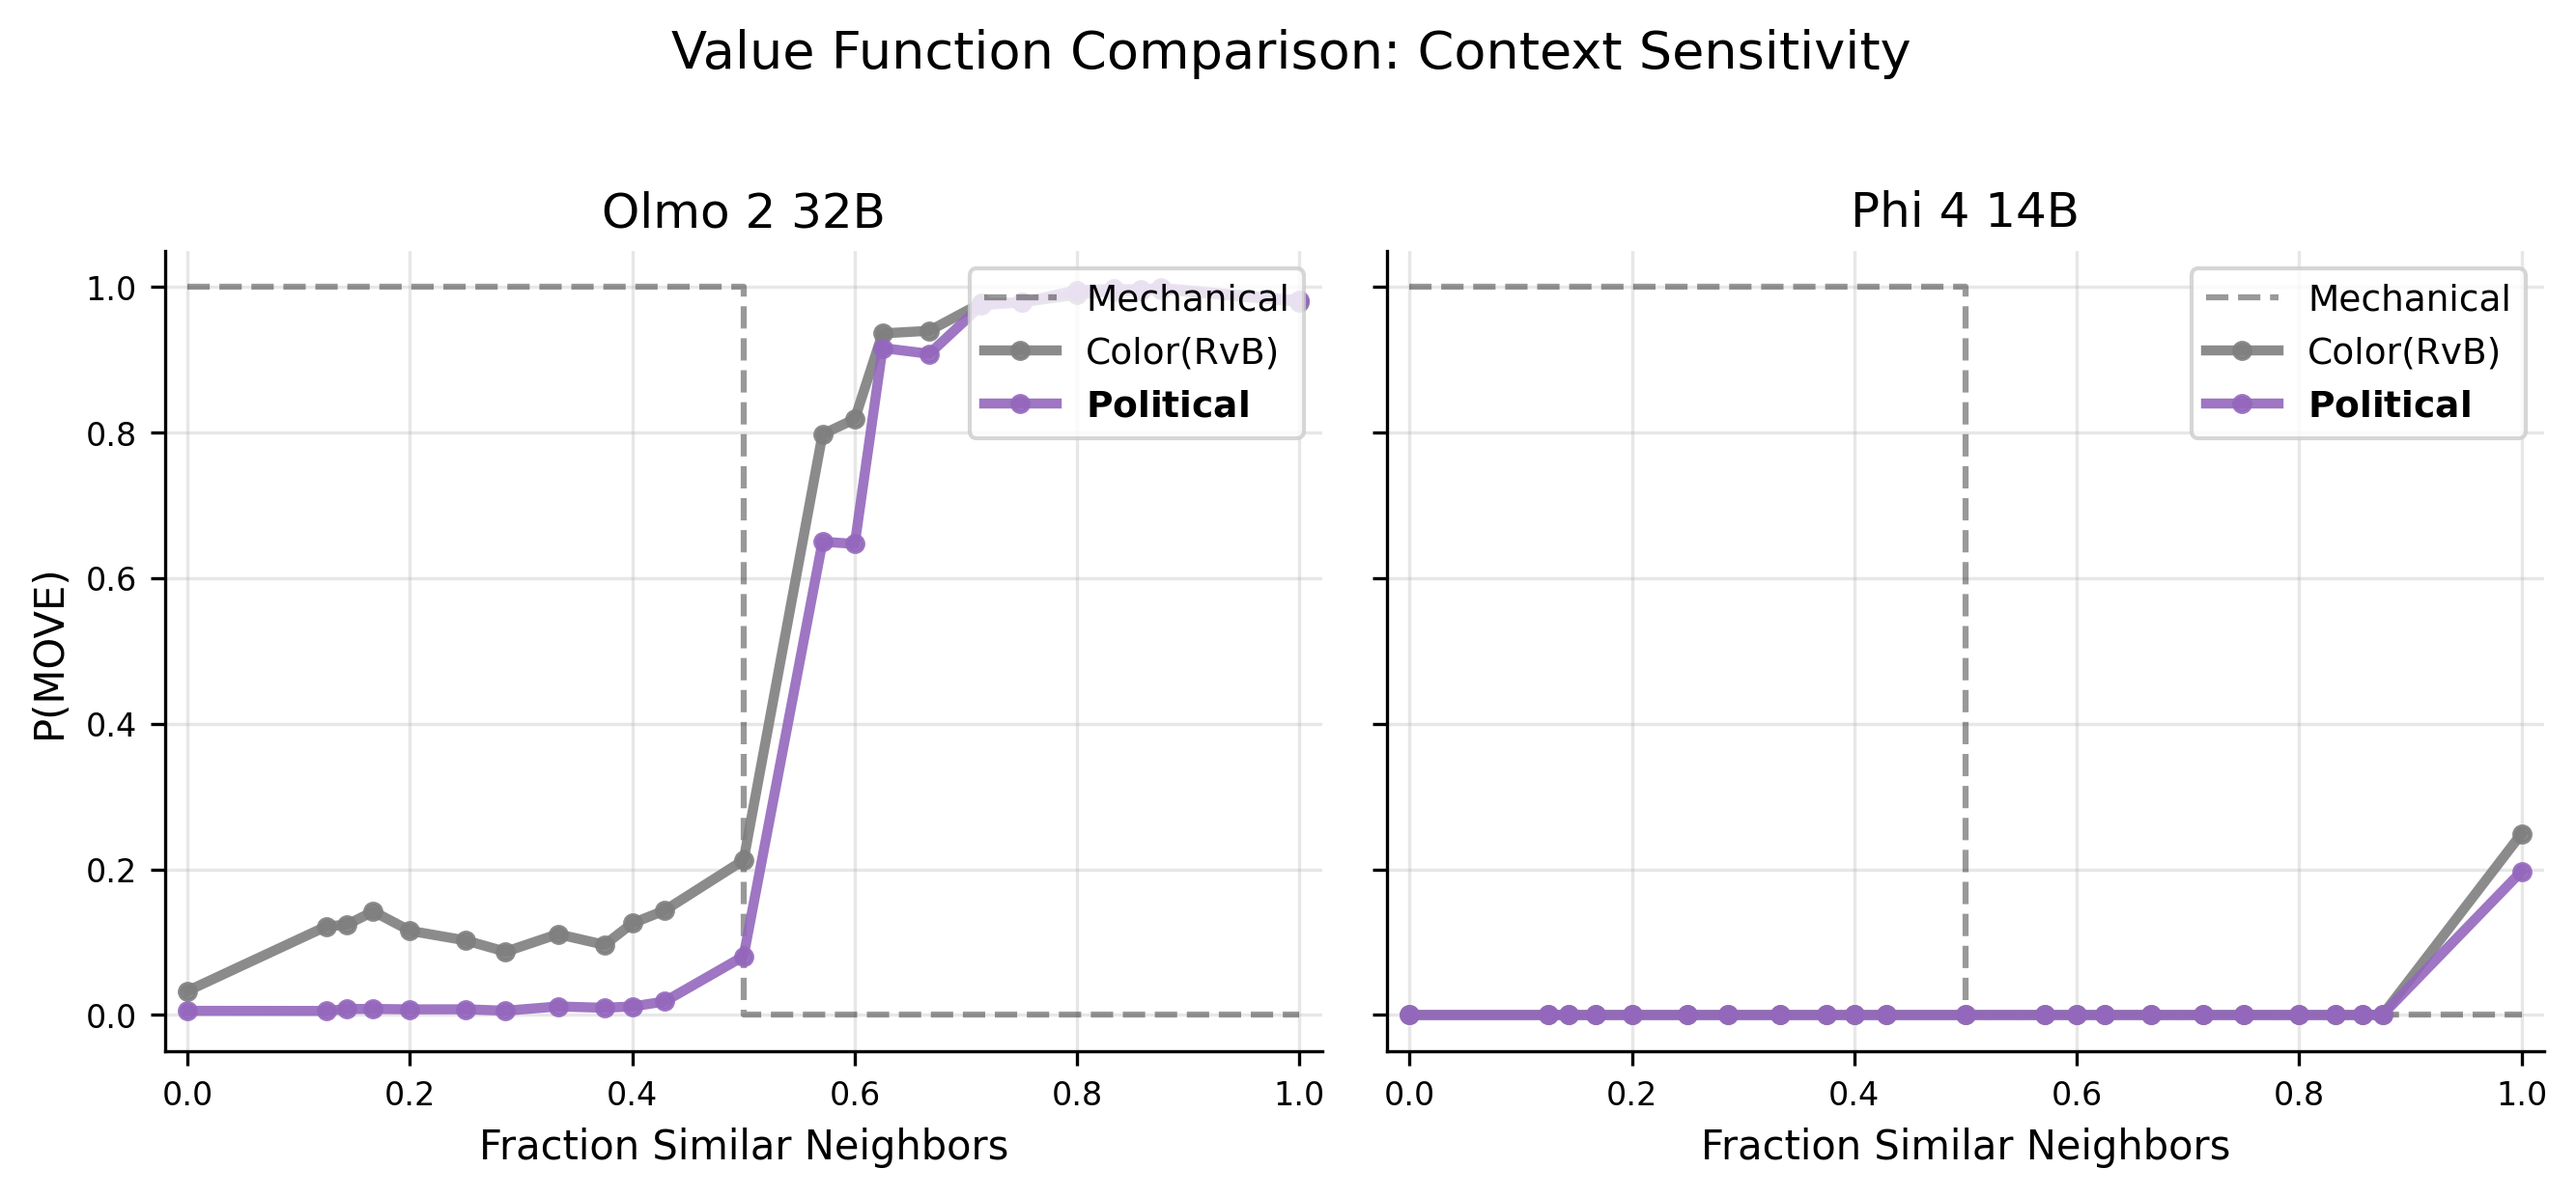
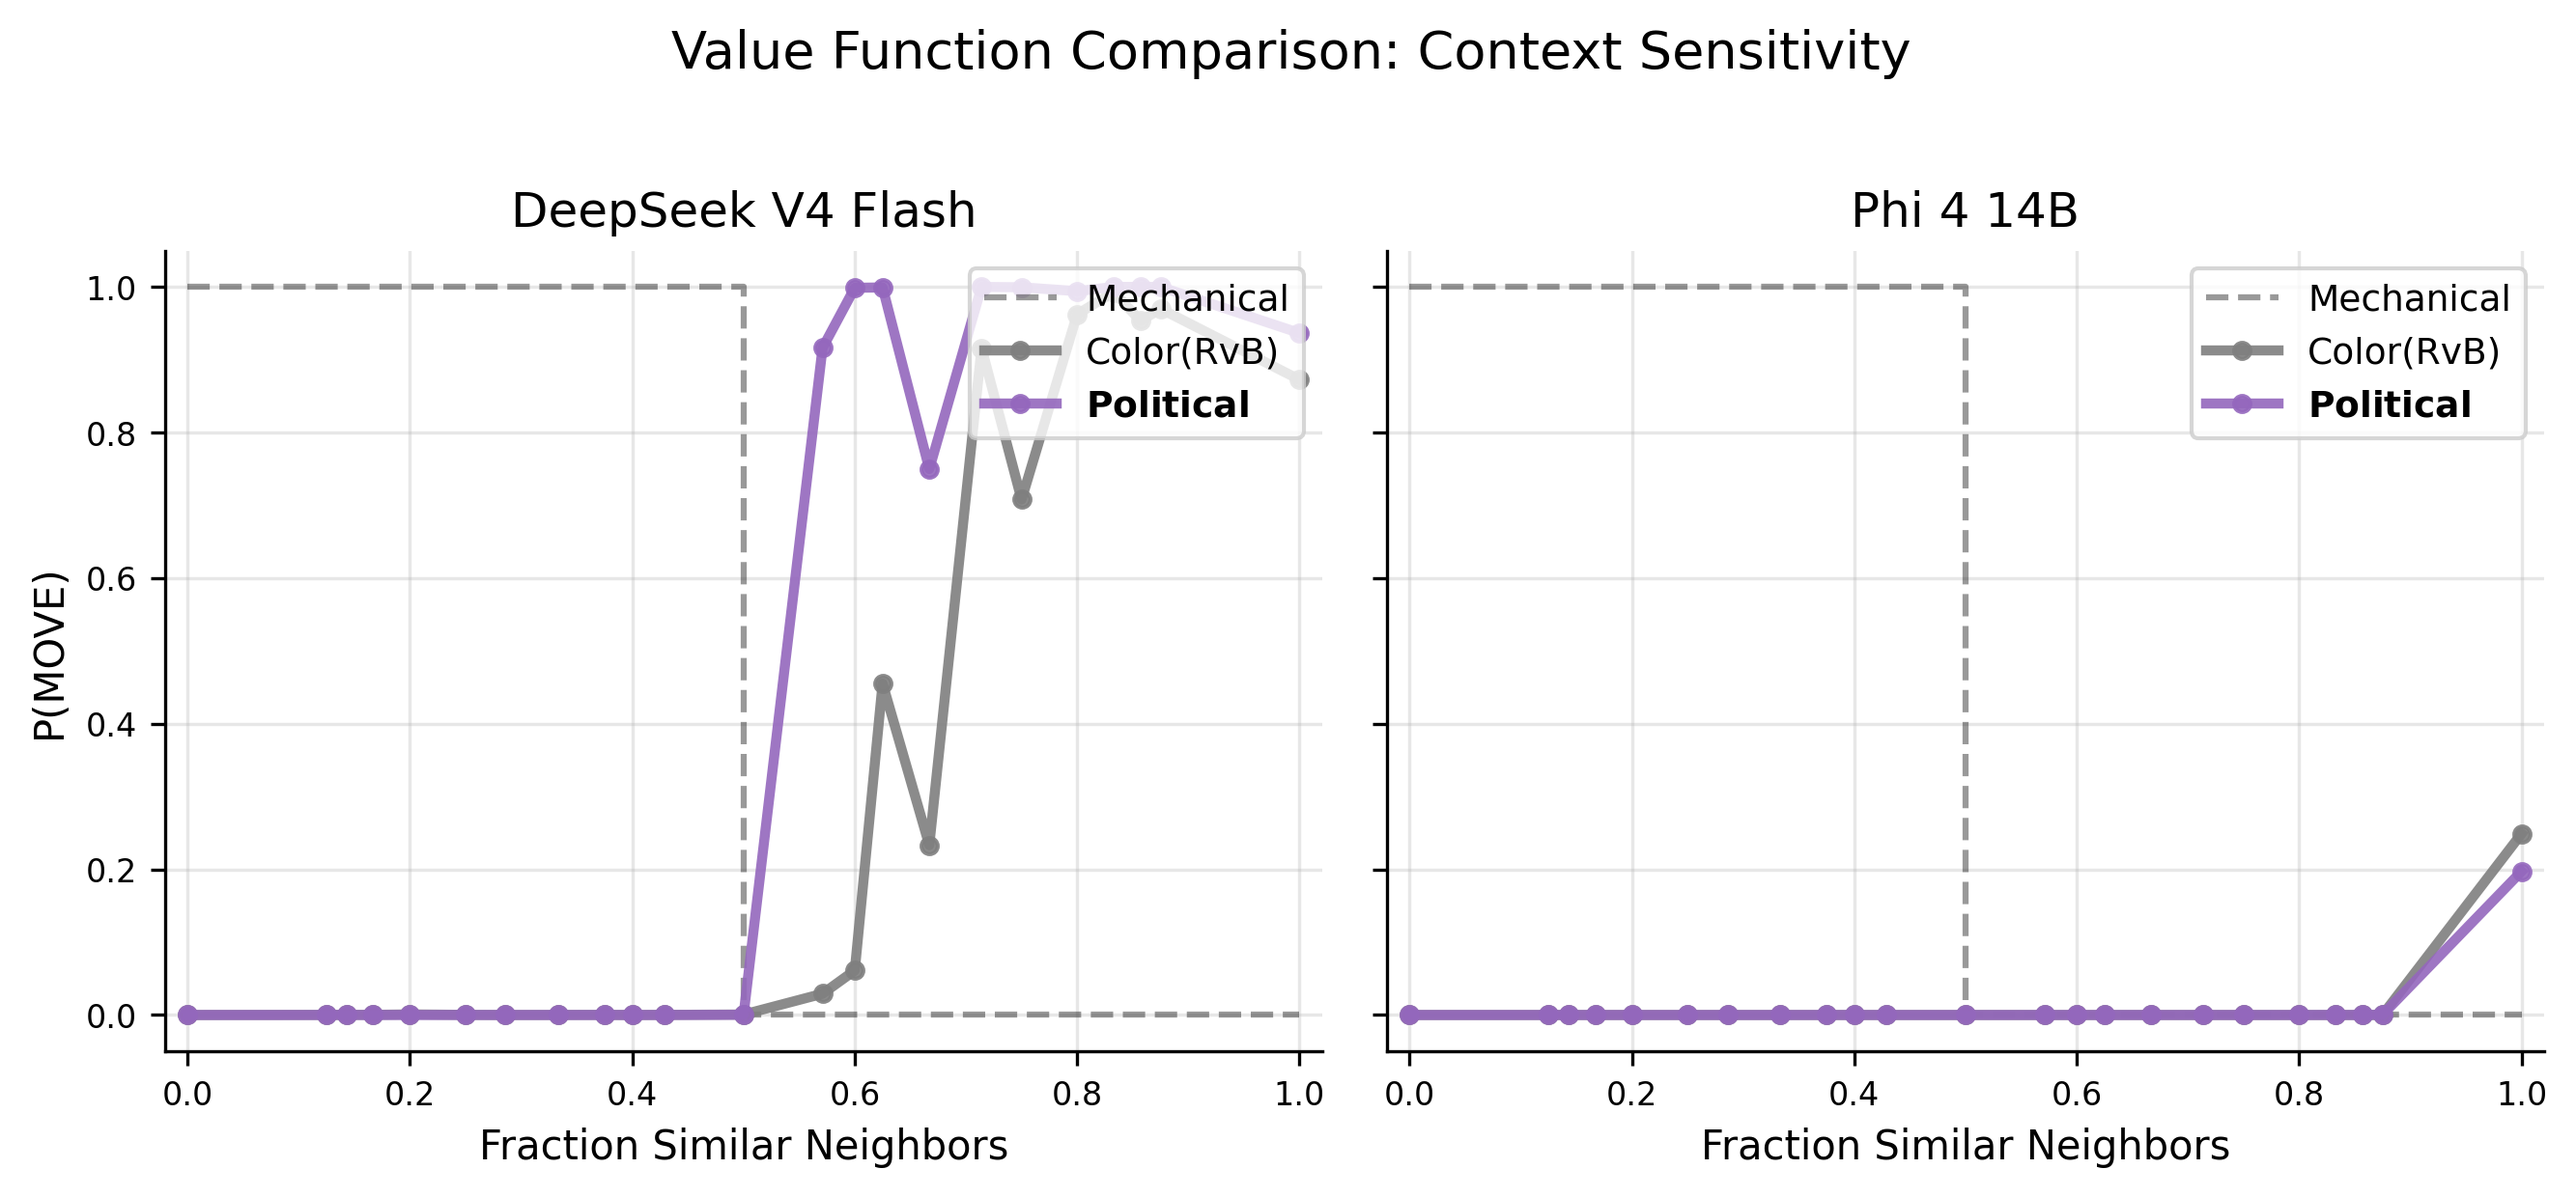
slide updates

Changed region(s): [[0.0622, 0.1532, 0.4046, 0.8581], [0.4357, 0.2452, 0.5291, 0.2758], [0.249, 0.7355, 0.2801, 0.7661]]

diff --git a/analysis_tools/ccs2026_presentation/compute_scenario_orderings.py b/analysis_tools/ccs2026_presentation/compute_scenario_orderings.py
@@ -14,7 +14,7 @@ Outputs:
 - pairwise_tests_all.csv: Full pairwise test results
 - ordering_3way.csv: Income vs Political vs Racial orderings
 - ordering_6way.csv: All scenario orderings
-- key_results_table.tex: LaTeX code for presentation
+- key_results_ordering.tex: LaTeX model rows only (for \input in presentation)
 """
 
 import pandas as pd
@@ -443,45 +443,23 @@ def check_grouping_pattern(ordering_str):
 
 
 def generate_latex_table(ordering_3way_df):
-    """Generate LaTeX code for the Key Results table.
+    """Generate LaTeX code for the Key Results ordering rows only.
 
     Uses grouping notation for cases where the first element matches empirical
     against all others, but internal ordering doesn't match.
     E.g., Olmo: "Economic <* (Racial < Political)" shows Economic lowest matches
     empirical, but Racial < Political doesn't match (should be Political < Racial).
+
+    Only generates the model rows (\midrule to \bottomrule) - the rest of the
+    frame is in the main presentation .tex file.
     """
     from datetime import datetime
     import re
 
     timestamp = datetime.now().strftime("%Y-%m-%d %H:%M:%S")
-    n_models = len(ordering_3way_df)
-    models_list = ", ".join(ordering_3way_df['model'].tolist())
 
-    header = f"""% =============================================================================
-% Key Results Table - Auto-generated
-% =============================================================================
-% Source: analysis_tools/ccs2026_presentation/compute_scenario_orderings.py
-% Generated: {timestamp}
-% Models: {n_models} ({models_list})
-% Data: experiments_with_llama_cpp/cross_model/cross_model_vf-lp_sources.csv
-% Methodology: Independent t-tests (Welch's), Holm-corrected, requires p<0.01 AND |Cohen's d|>=0.2
-% Regenerate: python analysis_tools/ccs2026_presentation/generate_and_deploy_tables.py --yes
-% =============================================================================
-
-"""
-
-    latex = header + r"""\begin{frame}[t]{Key Result. Segregation Ordering: Empirical vs. LLMs}
-
-
-\begin{center}
-\small
-\begin{tabular}{ll}
-\toprule
-\textbf{Source} & \textbf{Ordering (lowest $\rightarrow$ highest segregation)} \\
-\midrule
-\textbf{Empirical} & Economic $<^{\star}$ Political $<^{\star}$ Racial \\
-\midrule
-"""
+    # No comments at start - they break \noalign in tabular when using \input
+    latex = ""
 
     for _, row in ordering_3way_df.iterrows():
         model = row['model']
@@ -578,18 +556,8 @@ def generate_latex_table(ordering_3way_df):
 
         latex += f"{model_display} & {latex_ordering} \\\\\n"
 
-    latex += r"""\bottomrule
-\end{tabular} \\
-{$<^{\star}$ indicates match to the empirical order.}
-\end{center}
-
-\smallskip
-
-\textbf{Pattern:} Most context-sensitive LLMs show Racial segregation as \emph{lowest} (opposite of empirical). Only Olmo matches empirical by showing Economic as lowest. Three models (Granite, Mistral, Phi) are context-insensitive.
-
-\end{frame}
-"""
-
+    # Remove trailing \\\n from last row - main .tex will add \\ before \bottomrule
+    latex = latex.rstrip('\n').rstrip('\\').rstrip('\\')
     return latex
 
 
@@ -678,10 +646,19 @@ def main():
     # Generate LaTeX
     print("\n5. Generating LaTeX table...")
     latex_code = generate_latex_table(ordering_3way_df)
-    latex_path = SCRIPT_DIR / "key_results_table.tex"
+    latex_path = SCRIPT_DIR / "key_results_ordering.tex"
     with open(latex_path, 'w') as f:
-        f.write(latex_code)
+        f.write(latex_code.rstrip('\n'))  # No trailing newline - needed for \bottomrule
     print(f"   Saved: {latex_path}")
+
+    # Write metadata file
+    from datetime import datetime
+    timestamp = datetime.now().strftime("%Y-%m-%d %H:%M:%S")
+    info_path = SCRIPT_DIR / "key_results_ordering_info.txt"
+    with open(info_path, 'w') as f:
+        f.write(f"Source: analysis_tools/ccs2026_presentation/compute_scenario_orderings.py\n")
+        f.write(f"Generated: {timestamp}\n")
+    print(f"   Saved: {info_path}")
 
     print("\n" + "=" * 60)
     print("Done!")

diff --git a/analysis_tools/ccs2026_presentation/generate_value_function_plots.py b/analysis_tools/ccs2026_presentation/generate_value_function_plots.py
@@ -162,20 +162,21 @@ def generate_value_function_plot(model: str, run_dir: str, output_path: Path) ->
 
 def generate_combined_example_plot(output_path: Path) -> bool:
     """Generate a single plot comparing two contrasting models/scenarios."""
-    # Load Olmo (high differentiation) and Phi (low differentiation)
+    # Load DeepSeek (context-sensitive) and Phi (context-insensitive)
+    # Shows contrast between models that respond to context vs those that don't
     sources = pd.read_csv(CROSS_MODEL_SOURCES)
 
-    olmo_row = sources[sources['model'].str.startswith('olmo')].iloc[0]
+    deepseek_row = sources[sources['model'].str.startswith('deepseek')].iloc[0]
     phi_row = sources[sources['model'].str.startswith('phi')].iloc[0]
 
-    olmo_vfs = load_value_functions(olmo_row['run_dir'])
+    deepseek_vfs = load_value_functions(deepseek_row['run_dir'])
     phi_vfs = load_value_functions(phi_row['run_dir'])
 
-    if not olmo_vfs or not phi_vfs:
-        print("  WARNING: Could not load Olmo or Phi value functions")
+    if not deepseek_vfs or not phi_vfs:
+        print("  WARNING: Could not load DeepSeek or Phi value functions")
         return False
 
-    # Create 2x2 comparison: Olmo baseline vs political, Phi baseline vs political
+    # Create 1x2 comparison: DeepSeek (context-sensitive) vs Phi (context-insensitive)
     plt.rcParams.update({
         "figure.dpi": 300,
         "savefig.dpi": 300,
@@ -187,7 +188,7 @@ def generate_combined_example_plot(output_path: Path) -> bool:
 
     scenarios_to_show = ['baseline', 'political_liberal_conservative']
     models_data = [
-        ("Olmo 2 32B", olmo_vfs),
+        ("DeepSeek V4 Flash", deepseek_vfs),
         ("Phi 4 14B", phi_vfs),
     ]
 

diff --git a/analysis_tools/ccs2026_presentation/key_results_table.tex b/analysis_tools/ccs2026_presentation/key_results_table.tex
@@ -2,7 +2,7 @@
 % Key Results Table - Auto-generated
 % =============================================================================
 % Source: analysis_tools/ccs2026_presentation/compute_scenario_orderings.py
-% Generated: 2026-09-29 02:14:41
+% Generated: 2026-09-29 10:40:16
 % Models: 9 (olmo-2-32b, deepseek-v4-flash, llama-3.3-70b, qwen3.6-27b, gemma-4-31b, hermes-4.3-36b, granite-4.2-30b, mistral-small-4-119b, phi-4-14b)
 % Data: experiments_with_llama_cpp/cross_model/cross_model_vf-lp_sources.csv
 % Methodology: Independent t-tests (Welch's), Holm-corrected, requires p<0.01 AND |Cohen's d|>=0.2
@@ -30,8 +30,9 @@ Granite 4.2 30B & Racial $\approx$ Economic $\approx$ Political \\
 Mistral Small 4 119B & Racial $\approx$ Economic $\approx$ Political \\
 Phi 4 14B & Racial $\approx$ Economic $\approx$ Political \\
 \bottomrule
-\end{tabular} \\
-{$<^{\star}$ indicates match to the empirical order.}
+\end{tabular}
+
+{\tiny $<$: significant (p$<$0.01) \quad $\approx$: not significant (p$>$0.1) \quad ${}^{\star}$: matches empirical}
 \end{center}
 
 \smallskip

diff --git a/analysis_tools/ccs2026_presentation/generate_and_deploy_tables.py b/analysis_tools/ccs2026_presentation/generate_and_deploy_tables.py
@@ -25,7 +25,8 @@ PRES_DIR = PROJECT_ROOT / "pres-overleaf.link" / "pres"
 
 # Files to deploy
 LATEX_FILES = [
-    "key_results_table.tex",
+    "key_results_ordering.tex",
+    "key_results_ordering_info.txt",
 ]
 
 TARGET_HOSTNAME = "ECON-0FM96LD-L"
@@ -71,7 +72,7 @@ def deploy_tables():
     print("\nDone! Tables deployed to presentation folder.")
     print(f"  Location: {PRES_DIR}")
     print("\nTo use in your presentation, add to the preamble or where needed:")
-    print("  \\input{key_results_table.tex}")
+    print("  \\input{key_results_ordering.tex}")
 
     return True
 

diff --git a/analysis_tools/ccs2026_presentation/key_results_ordering.tex b/analysis_tools/ccs2026_presentation/key_results_ordering.tex
@@ -1,0 +1,9 @@
+Olmo 2 32B & Economic $<^{\star}$ (Racial $<$ Political) \\
+Deepseek V4 Flash & Racial $<$ Economic $<^{\star}$ Political \\
+Llama 3.3 70B & Racial $<$ Economic $<^{\star}$ Political \\
+Qwen3.6 27B & Racial $<$ Economic $<^{\star}$ Political \\
+Gemma 4 31B & Racial $<$ Political $\approx$ Economic \\
+Hermes 4.3 36B & Racial $<$ Political $\approx$ Economic \\
+Granite 4.2 30B & Racial $\approx$ Economic $\approx$ Political \\
+Mistral Small 4 119B & Racial $\approx$ Economic $\approx$ Political \\
+Phi 4 14B & Racial $\approx$ Economic $\approx$ Political 

diff --git a/README.md b/README.md
@@ -34,7 +34,7 @@ Cross-model comparison plots and statistical tests are in `experiments_with_llam
 
 The presentation at `pres-overleaf.link/pres/Schelling-llm-social-context.tex` needs to be updated with new results for the CCS 2026 conference (October 12–16, Binghamton, NY). The following tasks are required:
 
-#### Task 1: Update Key Results tables
+#### Task 1: Update Key Results tables ✓ DONE
 
 The "Key Results" table comparing LLM scenario orderings to empirical data must be updated with the new 9-model results using statistically rigorous analysis.
 
@@ -84,7 +84,7 @@ python analysis_tools/ccs2026_presentation/generate_and_deploy_tables.py --no
 
 **In the presentation:** Use `\input{key_results_table.tex}` to include the table.
 
-#### Task 2: Update Dissimilarity Index grid slide
+#### Task 2: Update Dissimilarity Index grid slide ✓ DONE
 
 The presentation slide "Dissimilarity Index: Sakoda-Schelling Model" describes the grid layout used for computing DI. The current slide shows a 10×10 grid, but the new experiments use a 20×20 grid.
 
@@ -119,15 +119,15 @@ The tract logic (`DissimilarityIndex.py`) uses a 3×3 block partition where edge
 Created slides explaining value functions with visual examples:
 
 1. **"Value Functions: From LLM to Simulation"** — conceptual explanation
-2. **"Value Functions: Olmo 2 32B"** — context-sensitive example (6 scenarios)
+2. **"Value Functions: DeepSeek V4 Flash"** — context-sensitive example (6 scenarios)
 3. **"Value Functions: Phi 4 14B"** — context-insensitive example (6 scenarios)
-4. **"Value Function Comparison"** — side-by-side Olmo vs Phi
+4. **"Value Function Comparison"** — side-by-side DeepSeek vs Phi (updated in Task 9)
 
 **Value function plot script:** `analysis_tools/ccs2026_presentation/generate_value_function_plots.py`
 
 Generates 2D value function plots showing P(MOVE) vs fraction of similar neighbors:
 - Per-model plots: 2×3 grid of all 6 scenarios
-- Comparison plot: Olmo vs Phi side-by-side
+- Comparison plot: DeepSeek vs Phi side-by-side
 
 ```bash
 python analysis_tools/ccs2026_presentation/generate_value_function_plots.py --yes
@@ -137,7 +137,7 @@ Output: `pics/<model>_value_functions.png`, `pics/value_function_comparison.png`
 
 **Data source:** `<run>/value_functions/vf_*__<scenario>__R3_dual_count.json`
 
-#### Task 4: Create individual model result slides
+#### Task 4: Create individual model result slides ✓ DONE
 
 The presentation has 6 old model result slides that must be **removed and replaced** with new slides for the 9 current models.
 
@@ -286,24 +286,18 @@ The prompts used in the project are from an earlier version and need to be updat
 - `value_functions/prompt_refinement/sampling_common.py`
 - Any other prompt-related files in the codebase
 
-#### Task 9: Change value function comparison to DeepSeek vs Qwen
+#### Task 9: Change value function comparison to DeepSeek vs Phi ✓ DONE
 
-Task 3 created value function comparison slides using Olmo vs Phi. These should be changed to compare DeepSeek vs Qwen, as these are better-known models.
+Changed the main body value function slides to show DeepSeek (context-sensitive) vs Phi (context-insensitive).
 
-**Current state (from Task 3):**
-- "Value Functions: Olmo 2 32B" slide
-- "Value Functions: Phi 4 14B" slide
-- "Value Function Comparison" — side-by-side Olmo vs Phi
+**Updated:**
+- `generate_value_function_plots.py` — uses DeepSeek and Phi for comparison
+- Presentation slides:
+  - "Value Functions: DeepSeek V4 Flash (Context-Sensitive)"
+  - "Value Functions: Phi 4 14B (Context-Insensitive)"
+  - "Value Function Comparison" — DeepSeek vs Phi side-by-side
 
-**Task:**
-1. Update `generate_value_function_plots.py` to generate DeepSeek and Qwen plots instead
-2. Regenerate comparison plot as DeepSeek vs Qwen side-by-side
-3. Update the presentation slides to reference the new models
-4. Keep Olmo/Phi plots available for appendix if needed
-
-**Files to update:**
-- `analysis_tools/ccs2026_presentation/generate_value_function_plots.py`
-- `pres-overleaf.link/pres/Schelling-llm-social-context.tex` — value function slides
+**To regenerate comparison image:** `python analysis_tools/ccs2026_presentation/generate_value_function_plots.py --yes`
 
 #### Task 10: Add value function heatmaps to slides
 
@@ -328,30 +322,16 @@ Value function heatmaps need to be added to the presentation in two places:
 - New script needed: `analysis_tools/ccs2026_presentation/generate_value_function_heatmaps.py`
 - Presentation: `pres-overleaf.link/pres/Schelling-llm-social-context.tex`
 
-#### Task 11: Add statistical significance legend to Key Results slide
+#### Task 11: Add statistical significance legend to Key Results slide ✓ DONE
 
-The Key Results table uses symbols (`<`, `>`, `≈`) to indicate statistical significance, but the slide doesn't explain what these mean. The audience needs to understand:
-- `≈` means p > 0.10 (not statistically distinguishable)
-- `<` or `>` means p < 0.01 (statistically significant)
+Added compact legend in `\scriptsize` below the table explaining the symbols:
+- `<` or `>`: statistically significant (p<0.01, |d| ≥ 0.2)
+- `≈`: not significant (p>0.10)
+- `<*`: matches empirical
 
-**Challenge:** The slide is already cramped, so the legend needs to be compact.
+**Updated:** `compute_scenario_orderings.py` — the script that generates `key_results_table.tex`
 
-**Possible approaches:**
-1. Footnote at bottom of slide (small text)
-2. Legend box in corner
-3. Separate "How to read this table" mini-slide before the results
-4. Symbol definitions in the slide title/subtitle area
-5. Use color coding in addition to symbols (e.g., bold for significant)
-
-**Task:**
-1. Review current slide layout and available space
-2. Choose approach that fits without cluttering
-3. Add legend/explanation to the presentation
-
-**Related to:** Task 1 (Key Results tables)
-
-**Files:**
-- `pres-overleaf.link/pres/Schelling-llm-social-context.tex` — Key Results slide
+**To regenerate:** `python analysis_tools/ccs2026_presentation/generate_and_deploy_tables.py --yes`
 
 #### Task 12: Add "Why Olmo?" slide
 
